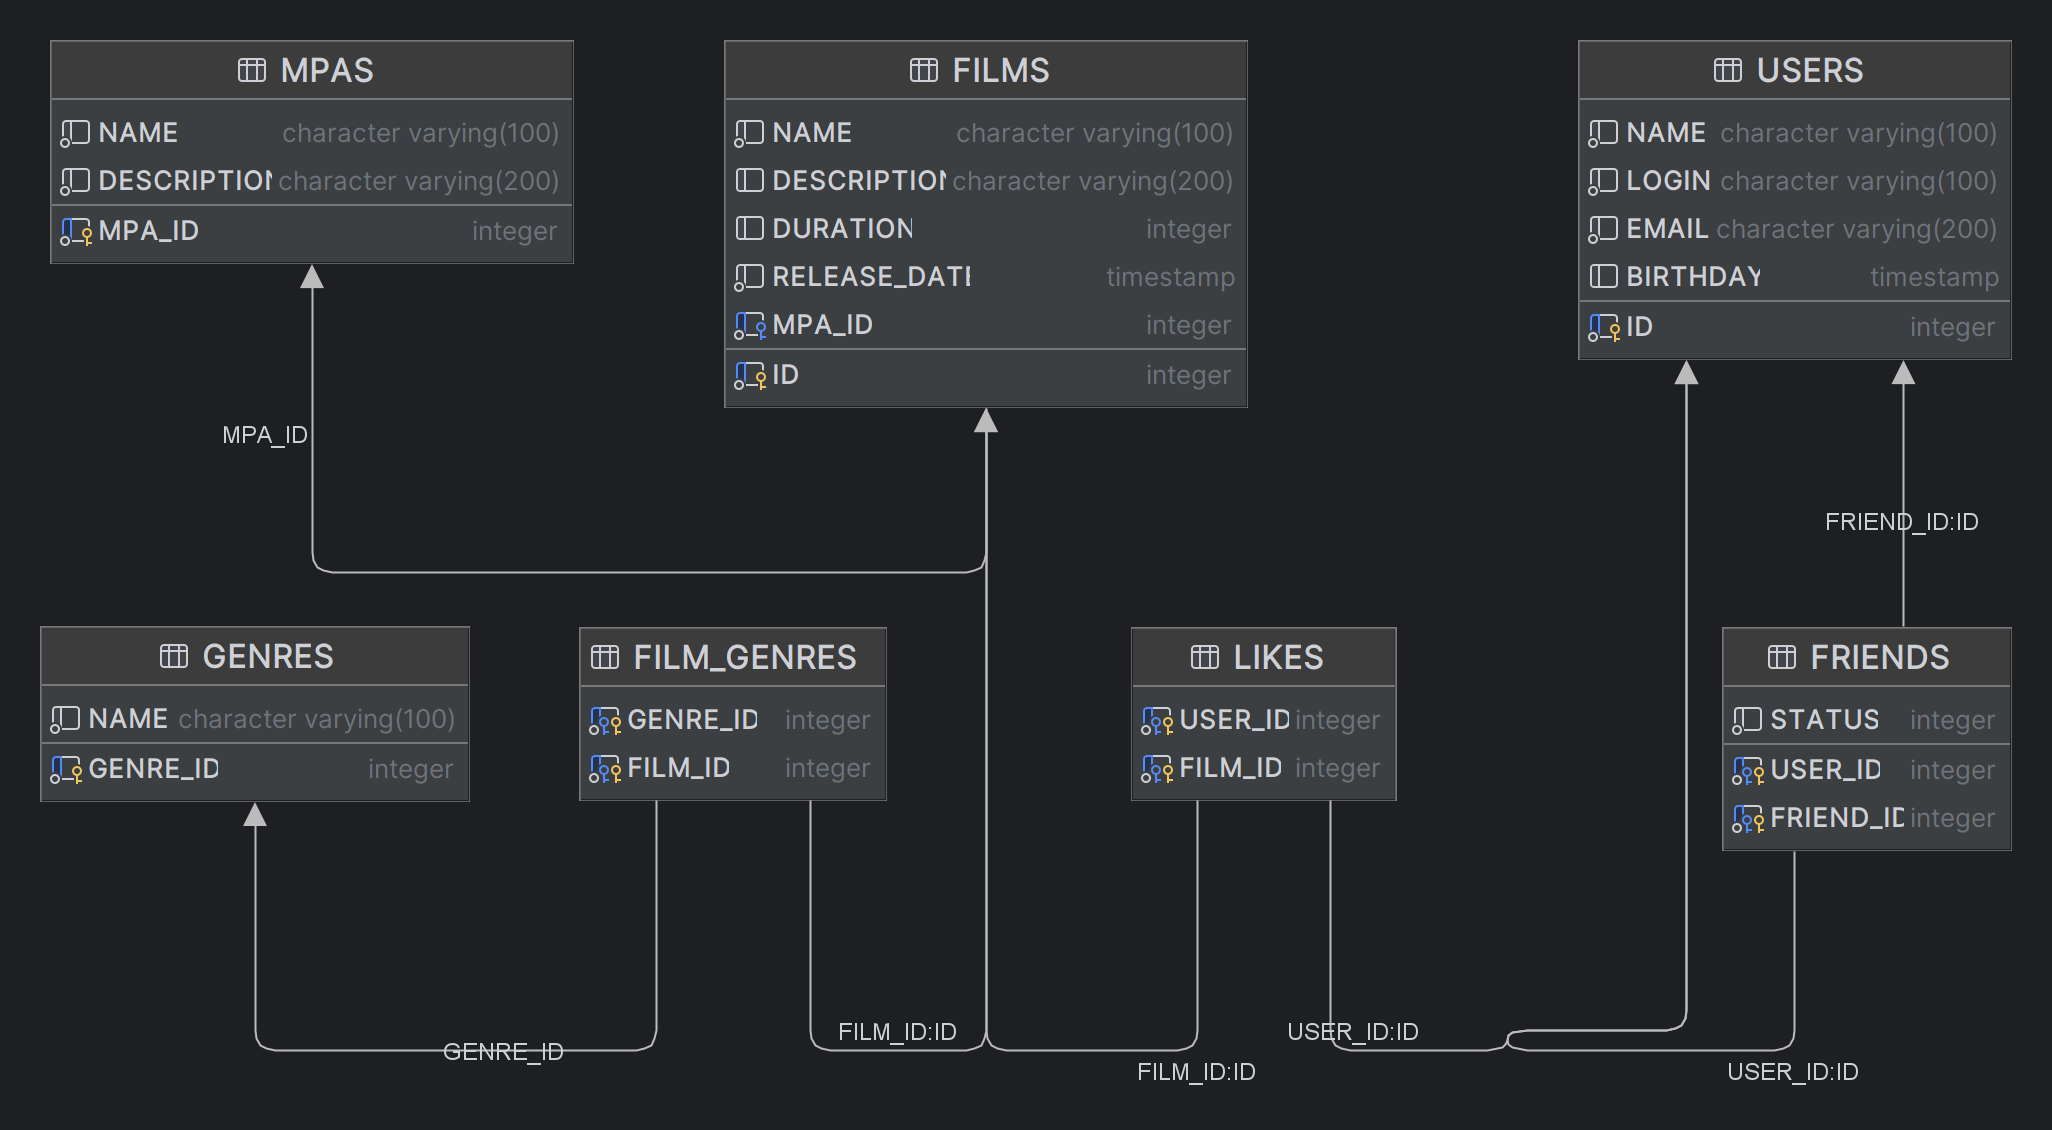
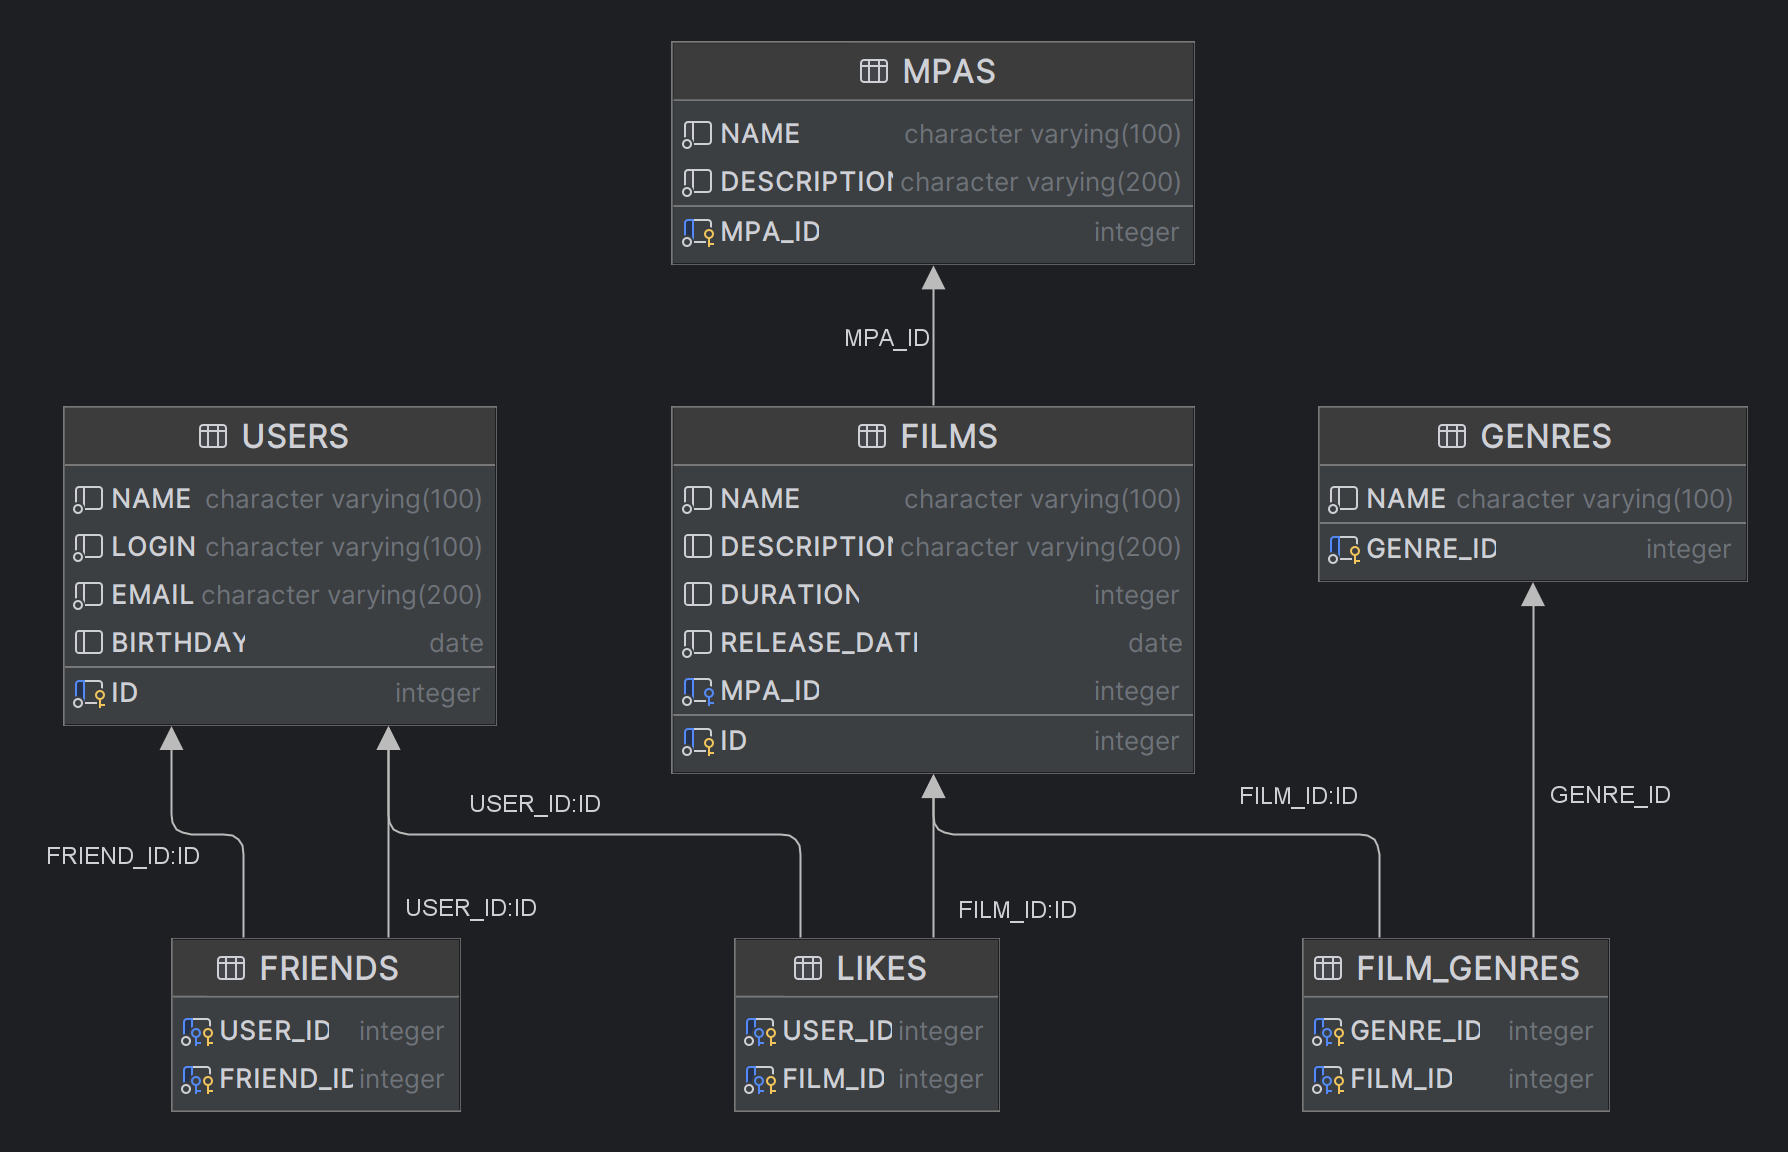
Sprint#11. Added h2-database. Iteration#2

diff --git a/src/main/java/ru/yandex/practicum/filmorate/storage/user/DbUserStorage.java b/src/main/java/ru/yandex/practicum/filmorate/storage/user/DbUserStorage.java
@@ -1,6 +1,6 @@
 package ru.yandex.practicum.filmorate.storage.user;
 
-import org.springframework.beans.factory.annotation.Autowired;
+import lombok.RequiredArgsConstructor;
 import org.springframework.context.annotation.Primary;
 import org.springframework.jdbc.core.JdbcOperations;
 import org.springframework.jdbc.support.GeneratedKeyHolder;
@@ -22,14 +22,10 @@ import java.util.Objects;
 
 @Component("DbUserStorage")
 @Primary
+@RequiredArgsConstructor
 public class DbUserStorage implements UserStorage {
 
     private final JdbcOperations jdbcTemplate;
-
-    @Autowired
-    public DbUserStorage(JdbcOperations jdbcTemplate) {
-        this.jdbcTemplate = jdbcTemplate;
-    }
 
     @Override
     public List<User> getAll() {
@@ -88,38 +84,22 @@ public class DbUserStorage implements UserStorage {
 
     @Override
     public User addToFriends(int userId, int friendId) {
-        int status = 0;
+        boolean isFriendExists = false;
         String sqlQuery = "SELECT * FROM FRIENDS WHERE USER_ID=? AND FRIEND_ID=?";
         SqlRowSet userRows = jdbcTemplate.queryForRowSet(sqlQuery, friendId, userId);
         if (userRows.next()) {
-            int qStatus = userRows.getInt("STATUS");
-            int uId = userRows.getInt("USER_ID");
-            int fId = userRows.getInt("FRIEND_ID");
-            if (qStatus == 0) {
-                qStatus = 1;
-                sqlQuery = "UPDATE FRIENDS SET STATUS=? WHERE USER_ID=? AND FRIEND_ID=?";
-                jdbcTemplate.update(sqlQuery, qStatus, uId, fId);
-            }
-            status = 1;
+            isFriendExists = true;
         }
-        sqlQuery = "INSERT INTO FRIENDS (USER_ID, FRIEND_ID, STATUS) values (?, ?, ?)";
-        jdbcTemplate.update(sqlQuery, userId, friendId, status);
+        if (!isFriendExists) {
+            sqlQuery = "INSERT INTO FRIENDS (USER_ID, FRIEND_ID) values (?, ?)";
+            jdbcTemplate.update(sqlQuery, userId, friendId);
+        }
         return getById(userId);
     }
 
     @Override
     public User removeFromFriends(int userId, int friendId) {
-        int status = 0;
-        String sqlQuery = "SELECT STATUS FROM FRIENDS WHERE USER_ID=? AND FRIEND_ID=?";
-        SqlRowSet userRows = jdbcTemplate.queryForRowSet(sqlQuery, userId, friendId);
-        if (userRows.next()) {
-            status = userRows.getInt("STATUS");
-        }
-        if (status == 1) {
-            sqlQuery = "UPDATE FRIENDS SET STATUS=? WHERE USER_ID=? AND FRIEND_ID=?";
-            jdbcTemplate.update(sqlQuery, 0, friendId, userId);
-        }
-        sqlQuery = "DELETE FROM FRIENDS WHERE USER_ID=? AND FRIEND_ID=?";
+        String sqlQuery = "DELETE FROM FRIENDS WHERE USER_ID=? AND FRIEND_ID=?";
         jdbcTemplate.update(sqlQuery, userId, friendId);
         return getById(userId);
     }

diff --git a/src/test/java/ru/yandex/practicum/filmorate/storage/DbUserStorageTest.java b/src/test/java/ru/yandex/practicum/filmorate/storage/DbUserStorageTest.java
@@ -23,6 +23,7 @@ import static org.junit.jupiter.api.Assertions.*;
 public class DbUserStorageTest {
 
     private final UserStorage storage;
+    private static int k = 0;
 
     @Test
     @DisplayName("Создание пользователя")
@@ -31,8 +32,8 @@ public class DbUserStorageTest {
         assertNotNull(user);
         assertEquals(1, user.getId());
         assertEquals("Steve Wozniak", user.getName());
-        assertEquals("woz", user.getLogin());
-        assertEquals("thesmartwozniak@gmail.com", user.getEmail());
+        assertEquals(k + "woz", user.getLogin());
+        assertEquals("thesmartwozniak" + k + "@gmail.com", user.getEmail());
         assertEquals(LocalDate.of(1950, 8, 11), user.getBirthday());
     }
 
@@ -41,9 +42,9 @@ public class DbUserStorageTest {
     void updateTest() {
         storage.create(makeUser());
         User user = storage.getById(1);
-        user.setLogin("SteveWoz");
+        user.setName("Steve Wozniak Jr");
         User updatedUser = storage.update(user);
-        assertEquals("SteveWoz", updatedUser.getLogin());
+        assertEquals("Steve Wozniak Jr", updatedUser.getName());
     }
 
     @Test
@@ -119,10 +120,11 @@ public class DbUserStorageTest {
     }
 
     private User makeUser() {
+        k++;
         return User.builder()
                 .name("Steve Wozniak")
-                .email("thesmartwozniak@gmail.com")
-                .login("woz")
+                .email("thesmartwozniak" + k + "@gmail.com")
+                .login(k + "woz")
                 .birthday(LocalDate.of(1950, 8, 11))
                 .build();
     }

diff --git a/src/main/java/ru/yandex/practicum/filmorate/storage/genre/DbGenreStorage.java b/src/main/java/ru/yandex/practicum/filmorate/storage/genre/DbGenreStorage.java
@@ -1,6 +1,6 @@
 package ru.yandex.practicum.filmorate.storage.genre;
 
-import org.springframework.beans.factory.annotation.Autowired;
+import lombok.RequiredArgsConstructor;
 import org.springframework.jdbc.core.JdbcOperations;
 import org.springframework.jdbc.support.rowset.SqlRowSet;
 import org.springframework.stereotype.Component;
@@ -12,14 +12,10 @@ import java.sql.SQLException;
 import java.util.List;
 
 @Component
+@RequiredArgsConstructor
 public class DbGenreStorage implements GenreStorage {
 
     private final JdbcOperations jdbcTemplate;
-
-    @Autowired
-    public DbGenreStorage(JdbcOperations jdbcTemplate) {
-        this.jdbcTemplate = jdbcTemplate;
-    }
 
     @Override
     public List<Genre> getAll() {

diff --git a/src/main/java/ru/yandex/practicum/filmorate/storage/film/DbFilmStorage.java b/src/main/java/ru/yandex/practicum/filmorate/storage/film/DbFilmStorage.java
@@ -1,6 +1,6 @@
 package ru.yandex.practicum.filmorate.storage.film;
 
-import org.springframework.beans.factory.annotation.Autowired;
+import lombok.RequiredArgsConstructor;
 import org.springframework.context.annotation.Primary;
 import org.springframework.jdbc.core.JdbcOperations;
 import org.springframework.jdbc.support.GeneratedKeyHolder;
@@ -25,14 +25,10 @@ import java.util.Set;
 
 @Component("DbFilmStorage")
 @Primary
+@RequiredArgsConstructor
 public class DbFilmStorage implements FilmStorage {
 
     private final JdbcOperations jdbcTemplate;
-
-    @Autowired
-    public DbFilmStorage(JdbcOperations jdbcTemplate) {
-        this.jdbcTemplate = jdbcTemplate;
-    }
 
     @Override
     public List<Film> getAll() {

diff --git a/src/main/java/ru/yandex/practicum/filmorate/storage/mpa/DbMpaStorage.java b/src/main/java/ru/yandex/practicum/filmorate/storage/mpa/DbMpaStorage.java
@@ -1,6 +1,6 @@
 package ru.yandex.practicum.filmorate.storage.mpa;
 
-import org.springframework.beans.factory.annotation.Autowired;
+import lombok.RequiredArgsConstructor;
 import org.springframework.jdbc.core.JdbcOperations;
 import org.springframework.stereotype.Component;
 import ru.yandex.practicum.filmorate.exception.DatabaseException;
@@ -12,14 +12,10 @@ import java.sql.SQLException;
 import java.util.List;
 
 @Component
+@RequiredArgsConstructor
 public class DbMpaStorage implements MpaStorage {
 
     private final JdbcOperations jdbcTemplate;
-
-    @Autowired
-    public DbMpaStorage(JdbcOperations jdbcTemplate) {
-        this.jdbcTemplate = jdbcTemplate;
-    }
 
     @Override
     public List<Mpa> getAll() {

diff --git a/src/main/java/ru/yandex/practicum/filmorate/controller/MpaController.java b/src/main/java/ru/yandex/practicum/filmorate/controller/MpaController.java
@@ -1,6 +1,6 @@
 package ru.yandex.practicum.filmorate.controller;
 
-import org.springframework.beans.factory.annotation.Autowired;
+import lombok.RequiredArgsConstructor;
 import org.springframework.web.bind.annotation.GetMapping;
 import org.springframework.web.bind.annotation.PathVariable;
 import org.springframework.web.bind.annotation.RequestMapping;
@@ -12,13 +12,10 @@ import java.util.List;
 
 @RestController
 @RequestMapping("/mpa")
+@RequiredArgsConstructor
 public class MpaController {
-    private final MpaService service;
 
-    @Autowired
-    public MpaController(MpaService service) {
-        this.service = service;
-    }
+    private final MpaService service;
 
     @GetMapping
     List<Mpa> getAll() {

diff --git a/src/main/java/ru/yandex/practicum/filmorate/service/GenreService.java b/src/main/java/ru/yandex/practicum/filmorate/service/GenreService.java
@@ -1,6 +1,6 @@
 package ru.yandex.practicum.filmorate.service;
 
-import org.springframework.beans.factory.annotation.Autowired;
+import lombok.RequiredArgsConstructor;
 import org.springframework.stereotype.Service;
 import ru.yandex.practicum.filmorate.exception.NotFoundException;
 import ru.yandex.practicum.filmorate.model.Genre;
@@ -9,14 +9,10 @@ import ru.yandex.practicum.filmorate.storage.genre.GenreStorage;
 import java.util.List;
 
 @Service
+@RequiredArgsConstructor
 public class GenreService {
 
     private final GenreStorage storage;
-
-    @Autowired
-    public GenreService(GenreStorage storage) {
-        this.storage = storage;
-    }
 
     public List<Genre> getAll() {
         return storage.getAll();

diff --git a/src/main/java/ru/yandex/practicum/filmorate/service/MpaService.java b/src/main/java/ru/yandex/practicum/filmorate/service/MpaService.java
@@ -1,6 +1,6 @@
 package ru.yandex.practicum.filmorate.service;
 
-import org.springframework.beans.factory.annotation.Autowired;
+import lombok.RequiredArgsConstructor;
 import org.springframework.stereotype.Service;
 import ru.yandex.practicum.filmorate.exception.NotFoundException;
 import ru.yandex.practicum.filmorate.model.Mpa;
@@ -9,14 +9,10 @@ import ru.yandex.practicum.filmorate.storage.mpa.MpaStorage;
 import java.util.List;
 
 @Service
+@RequiredArgsConstructor
 public class MpaService {
 
     private final MpaStorage storage;
-
-    @Autowired
-    public MpaService(MpaStorage storage) {
-        this.storage = storage;
-    }
 
     public List<Mpa> getAll() {
         return storage.getAll();

diff --git a/src/main/java/ru/yandex/practicum/filmorate/controller/UserController.java b/src/main/java/ru/yandex/practicum/filmorate/controller/UserController.java
@@ -1,6 +1,6 @@
 package ru.yandex.practicum.filmorate.controller;
 
-import org.springframework.beans.factory.annotation.Autowired;
+import lombok.RequiredArgsConstructor;
 import org.springframework.validation.annotation.Validated;
 import org.springframework.web.bind.annotation.*;
 import ru.yandex.practicum.filmorate.model.User;
@@ -11,15 +11,11 @@ import java.util.List;
 
 @RestController
 @RequestMapping("/users")
+@RequiredArgsConstructor
 @Validated
 public class UserController {
 
     private final UserService service;
-
-    @Autowired
-    public UserController(UserService service) {
-        this.service = service;
-    }
 
     @PostMapping
     User create(@RequestBody @Valid User user) {

diff --git a/src/main/java/ru/yandex/practicum/filmorate/controller/FilmController.java b/src/main/java/ru/yandex/practicum/filmorate/controller/FilmController.java
@@ -1,6 +1,6 @@
 package ru.yandex.practicum.filmorate.controller;
 
-import org.springframework.beans.factory.annotation.Autowired;
+import lombok.RequiredArgsConstructor;
 import org.springframework.validation.annotation.Validated;
 import org.springframework.web.bind.annotation.*;
 import ru.yandex.practicum.filmorate.model.Film;
@@ -12,14 +12,10 @@ import java.util.List;
 @RestController
 @RequestMapping("/films")
 @Validated
+@RequiredArgsConstructor
 public class FilmController {
 
     private final FilmService service;
-
-    @Autowired
-    public FilmController(FilmService service) {
-        this.service = service;
-    }
 
     @PostMapping
     Film create(@RequestBody @Valid Film film) {

diff --git a/src/main/java/ru/yandex/practicum/filmorate/controller/GenreController.java b/src/main/java/ru/yandex/practicum/filmorate/controller/GenreController.java
@@ -1,6 +1,6 @@
 package ru.yandex.practicum.filmorate.controller;
 
-import org.springframework.beans.factory.annotation.Autowired;
+import lombok.RequiredArgsConstructor;
 import org.springframework.web.bind.annotation.GetMapping;
 import org.springframework.web.bind.annotation.PathVariable;
 import org.springframework.web.bind.annotation.RequestMapping;
@@ -12,14 +12,10 @@ import java.util.List;
 
 @RestController
 @RequestMapping("/genres")
+@RequiredArgsConstructor
 public class GenreController {
 
     private final GenreService service;
-
-    @Autowired
-    public GenreController(GenreService service) {
-        this.service = service;
-    }
 
     @GetMapping
     List<Genre> getAll() {

diff --git a/src/main/java/ru/yandex/practicum/filmorate/storage/StorageUtils.java b/src/main/java/ru/yandex/practicum/filmorate/storage/StorageUtils.java
@@ -1,13 +1,12 @@
 package ru.yandex.practicum.filmorate.storage;
 
+import lombok.experimental.UtilityClass;
 import org.springframework.jdbc.core.JdbcOperations;
 import org.springframework.jdbc.support.rowset.SqlRowSet;
 import ru.yandex.practicum.filmorate.model.Mpa;
 
-public abstract class StorageUtils {
-
-    private StorageUtils() {
-    }
+@UtilityClass
+public class StorageUtils {
 
     public static Mpa makeMpa(JdbcOperations jdbcTemplate, int id) {
         String query = "SELECT * FROM MPAS WHERE MPA_ID=?;";
